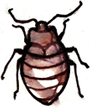
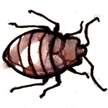
ad #coffee_sonata, change bug.png

diff --git a/public/css/style.css b/public/css/style.css
@@ -39,6 +39,10 @@ body{
         height: 175px;
         left: 332px;
     }
+    #bug{
+        width:54px;
+        height:54px;
+    }
     #cup{
         background: url(../img/tasse.png) no-repeat;
         width: 343px;
@@ -80,6 +84,14 @@ body{
         left: 5px;
         top: 455px;
     }
+
+    #coffee_sonata{
+        background: url(../img/kaffehauskontate_bg.png) no-repeat left;
+        width: 758px;
+        height: 218px;
+        bottom: 51px;
+        right: -758px;
+    }
 }
 /*................iPad-Retina................*/
 @media (min-width: 1536px){
@@ -96,6 +108,10 @@ body{
         width: 300px;
         height: 350px;
         left: 664px;
+    }
+    #bug{
+        width:108px;
+        height:108px;
     }
     #cup{
         background: url(../img/tasse@2x.png) no-repeat;
@@ -137,6 +153,14 @@ body{
         height: 420px;
         left: 10px;
         top: 910px;
+    }
+
+    #coffee_sonata{
+        background: url(../img/kaffehauskontate_bg@2x.png) no-repeat left;
+        width: 1516px;
+        height: 436px;
+        bottom: 102px;
+        right: -1516px;
     }
 }
 
@@ -316,10 +340,12 @@ a.get_pop:hover{
 #cup{
     position: absolute;
     right: 0;
+    z-index: 15;
 }
 #cup-snap{
     position: absolute;
     background-color: red;
+    z-index: 20;
 }
 section#objects .bean{
     position: absolute;
@@ -330,11 +356,15 @@ section#objects .bean{
     display: none;
 }
 
+#coffee_sonata{
+    position: absolute;
+    z-index: 12;
+}
+
 #bug{
-    width:50px;
-    height:50px;
     position:absolute;
-    background-image: url(../img/bug1.png);
+    background-image: url(../img/bug.png);
+    background-size: contain;
     display:none;
     z-index: 5;
 }

diff --git a/index.html b/index.html
@@ -52,6 +52,7 @@
 				<div id="speech_bubble">
 					<p>Finde alle drei Bohnen im Bild und ziehe sie in die Tasse!</p>
 				</div>
+				<div id="coffee_sonata"></div>
 
 				<!-- popup object #1 -->
 				<a href="#x" class="overlay" id="object1_content"></a>
